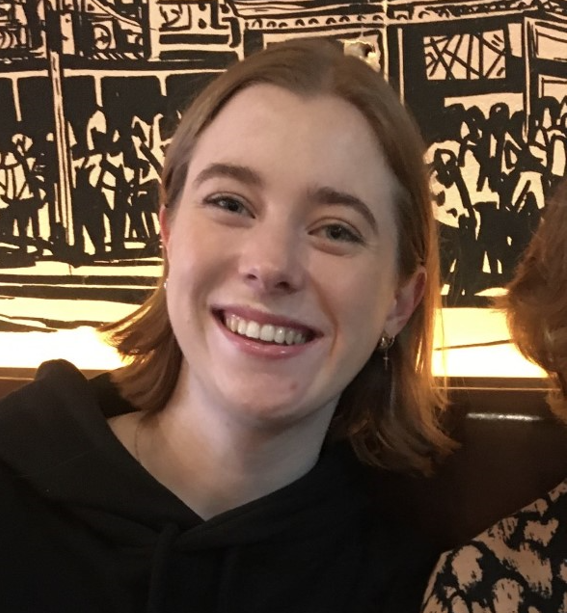
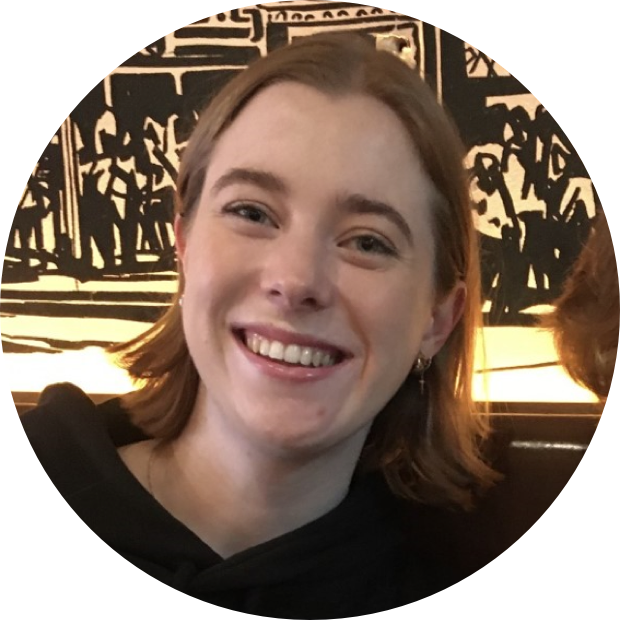
updated to Elise image and linkedin url

diff --git a/index.html b/index.html
@@ -1692,7 +1692,7 @@
                   <div class="crowdspot-founder__name">Elise Miller</div>
                   <p>Project Manager</p>
                   <p>Elise has a particular passion for inclusion and its many intersections within urban studies. She is passionate about active transport and envisioning new transport futures within the context of increasing climate challenges. As a project manager, Elise supports clients and conducts analysis for project findings.</p>
-                  <p><a href="mailto:elise@crowdspot.com.au"><i class="sprite sprite-contact-email"></i></a></p>
+                  <p><a href="mailto:elise@crowdspot.com.au"><i class="sprite sprite-contact-email"></i></a> <a href="https://www.linkedin.com/in/elise-miller-08789b190/" target="_blank"><i class="sprite sprite-contact-linkedin"></i></a></p>
                 </div>
                 <div class="why-crowdspot-founder">
                   <img src="img/photo-backend.png" class="crowdspot-founder__image">
